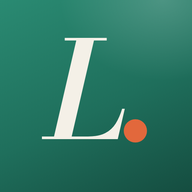
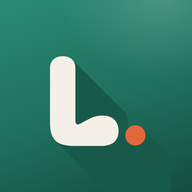
Type system B: Bagel Fat One wordmark, Nunito + Noto Sans SC, green long-shadow home poster
- Home opens on a green poster with long-shadow Loka. and bilingual headline
- Header goes transparent over the poster, frosted after scroll
- Bodoni/DM Sans retired; Nunito 900 headlines, Noto Sans SC Black for Chinese
- Icons, maskable icon, favicon and og.png redrawn to match
- SW cache loka-v6

Claude-Session: https://claude.ai/code/session_015bNF5qWaYTqrnXhoGxR5Lv

Changed region(s): [[0.2188, 0.1875, 0.7812, 0.7812], [0.6562, 0.7188, 0.75, 0.7812]]

diff --git a/css/app.css b/css/app.css
@@ -1,13 +1,13 @@
-:root{--ink:#F4F0E7;--bg2:#EBE4D6;--panel:#FFFFFF;--line:rgba(25,21,18,.1);--txt:#191512;--mut:#6B645A;--lime:#1F6F5C;--soft:#E3F0EB;--hot:#E2683C;--sky:#C99A2B;--serif:'Bodoni Moda','Noto Serif SC',serif}
+:root{--ink:#F4F0E7;--bg2:#EBE4D6;--panel:#FFFFFF;--line:rgba(25,21,18,.1);--txt:#191512;--mut:#6B645A;--lime:#1F6F5C;--soft:#E3F0EB;--hot:#E2683C;--sky:#C99A2B;--serif:'Nunito','Noto Sans SC',sans-serif;--display:'Bagel Fat One','Noto Sans SC',sans-serif}
 *{box-sizing:border-box;margin:0;-webkit-tap-highlight-color:transparent}
-body{background:var(--ink);overflow-x:hidden;color:var(--txt);font-family:'DM Sans','Noto Sans SC',system-ui,sans-serif;font-weight:400;line-height:1.5;padding-bottom:92px}
+body{background:var(--ink);overflow-x:hidden;color:var(--txt);font-family:'Nunito','Noto Sans SC',system-ui,sans-serif;font-weight:400;line-height:1.5;padding-bottom:92px}
 button,input,select,textarea{font:inherit;color:inherit}
 button{cursor:pointer;border:0;background:none}
 .wrap{max-width:520px;margin:0 auto;padding:0 18px}
 header{display:flex;align-items:center;justify-content:space-between;padding:20px 0 8px}
 .logo{font-family:var(--serif);font-weight:600;font-size:30px;letter-spacing:-.5px;font-style:italic}
 .logo b{color:var(--hot);font-style:normal}
-.logo small{font-family:'DM Sans','Noto Sans SC',sans-serif;font-style:normal;font-size:12px;color:var(--mut);margin-left:8px;letter-spacing:.5px;font-weight:500}
+.logo small{font-family:'Nunito','Noto Sans SC',sans-serif;font-style:normal;font-size:12px;color:var(--mut);margin-left:8px;letter-spacing:.5px;font-weight:500}
 .lang{border:1px solid rgba(25,21,18,.2);border-radius:99px;padding:6px 14px;font-size:13px;font-weight:500;background:#fff}
 .demo{background:var(--bg2);color:var(--mut);font-size:12px;border-radius:12px;padding:9px 12px;margin:6px 0 14px}
 h1{font-family:var(--serif);font-size:38px;font-weight:500;letter-spacing:-.8px;line-height:1.05;margin:10px 0 8px}
@@ -30,7 +30,7 @@ h1 em{color:var(--lime);font-style:italic}
 .row{display:flex;justify-content:space-between;align-items:flex-start;gap:10px}
 .tt{font-weight:600;font-size:16.5px;line-height:1.25}
 .meta{color:var(--mut);font-size:13px;margin-top:4px}
-.price{font-family:var(--serif);font-weight:600;font-size:23px;color:var(--lime);white-space:nowrap}.price small{font-family:'DM Sans','Noto Sans SC',sans-serif;font-size:11px;color:var(--mut);font-weight:400}
+.price{font-family:var(--serif);font-weight:600;font-size:23px;color:var(--lime);white-space:nowrap}.price small{font-family:'Nunito','Noto Sans SC',sans-serif;font-size:11px;color:var(--mut);font-weight:400}
 .badge{font-weight:600;font-size:12px;border-radius:99px;padding:5px 11px;white-space:nowrap}
 .b-need{background:var(--hot);color:#fff}.b-open{background:var(--soft);color:var(--lime)}.b-full{background:var(--bg2);color:var(--mut)}
 .bar{height:5px;background:var(--bg2);border-radius:9px;margin-top:14px;overflow:hidden}
@@ -107,7 +107,7 @@ input,select,textarea{width:100%;background:#fff;border:1px solid rgba(25,21,18,
 .match em{font-style:normal;flex:none;width:40px;height:40px;border-radius:50%;background:var(--hot);color:#fff;display:flex;align-items:center;justify-content:center;font-size:18px}
 .mini{display:flex;align-items:center;justify-content:space-between;gap:12px;width:100%;text-align:left;background:#fff;border-radius:14px;padding:11px 14px;margin-bottom:8px}
 .mini span{min-width:0;flex:1}.mini b{display:block;font-size:14px;font-weight:600;overflow:hidden;text-overflow:ellipsis;white-space:nowrap}.mini i{display:block;font-style:normal;font-size:12px;color:var(--mut);overflow:hidden;text-overflow:ellipsis;white-space:nowrap}
-.mini em{font-style:normal;flex:none;text-align:right;font-family:var(--serif);font-weight:600;font-size:19px;line-height:1}.mini em small{display:block;font-family:'DM Sans','Noto Sans SC',sans-serif;font-size:10px;font-weight:500;color:var(--mut);margin-top:3px}
+.mini em{font-style:normal;flex:none;text-align:right;font-family:var(--serif);font-weight:600;font-size:19px;line-height:1}.mini em small{display:block;font-family:'Nunito','Noto Sans SC',sans-serif;font-size:10px;font-weight:500;color:var(--mut);margin-top:3px}
 .mini em.gd{color:var(--lime)}.mini em.bd{color:var(--hot)}
 .link{display:block;margin:14px auto 0;font-size:13px;color:var(--mut);text-decoration:underline;text-underline-offset:3px}
 .cmp{overflow-x:auto;background:#fff;border-radius:16px;padding:6px 4px}.cmp table{border-collapse:collapse;width:100%;font-size:13px}
@@ -158,7 +158,7 @@ html[lang=zh] h1{letter-spacing:0;line-height:1.18}
 
 /* Section header with a link on the right */
 .sec.row2{display:flex;align-items:baseline;justify-content:space-between}
-.link.sm{font-family:'DM Sans','Noto Sans SC',sans-serif;font-style:normal;font-size:13px;font-weight:600;color:var(--lime);text-decoration:none}
+.link.sm{font-family:'Nunito','Noto Sans SC',sans-serif;font-style:normal;font-size:13px;font-weight:600;color:var(--lime);text-decoration:none}
 
 /* New rooms strip */
 .strip{display:flex;gap:12px;overflow-x:auto;scroll-snap-type:x mandatory;margin:0 -18px;padding:2px 18px 12px;scrollbar-width:none}
@@ -194,3 +194,47 @@ header.stuck{background:rgba(244,240,231,.86);backdrop-filter:blur(16px) saturat
 .seg button.on{background:#fff;color:var(--txt);box-shadow:0 2px 6px -2px rgba(25,21,18,.25);cursor:default}
 .wm .tg em{font-style:normal;letter-spacing:.06em;font-size:11px;font-weight:600}
 html[lang=zh] h1 em{font-style:normal}
+
+
+/* ───────── Type system B (17 Nov 2026): Bagel Fat One wordmark, Nunito, 思源黑体 Black ───────── */
+body{font-family:'Nunito','Noto Sans SC',system-ui,sans-serif;font-weight:500}
+h1{font-weight:900;letter-spacing:-.6px;line-height:1.08}
+h1 em{font-style:normal}
+.sec{font-style:normal;font-weight:900;font-size:20px;letter-spacing:-.2px}
+.price{font-weight:900;letter-spacing:-.3px}
+.stat b,.res b,.mini em{font-weight:900}
+.lb .rk,.step b{font-style:normal;font-weight:900}
+.match b{font-style:normal;font-weight:900;font-size:21px}
+.hero .n{font-style:normal;font-weight:900;font-size:28px;letter-spacing:-.4px;text-shadow:1px 1px 0 rgba(0,0,0,.14),2px 2px 0 rgba(0,0,0,.14),3px 3px 0 rgba(0,0,0,.14),4px 4px 0 rgba(0,0,0,.14),5px 5px 0 rgba(0,0,0,.14),6px 6px 0 rgba(0,0,0,.14)}
+.chip,.tag,.btn,.post{font-weight:700}
+html[lang=zh] h1,html[lang=zh] .sec{letter-spacing:0}
+
+/* Header wordmark */
+.wm .nm{font-family:var(--display);font-style:normal;font-weight:400;font-size:28px;letter-spacing:-.5px;line-height:1.05;text-shadow:1px 1px 0 #DCD2BF,2px 2px 0 #DCD2BF,3px 3px 0 #DCD2BF,4px 4px 0 #DCD2BF,5px 5px 0 #DCD2BF}
+.mark i{font-family:var(--display);font-style:normal;font-weight:400;font-size:27px;left:10px;top:5px;text-shadow:1px 1px 0 #185a4a,2px 2px 0 #185a4a,3px 3px 0 #185a4a,4px 4px 0 #185a4a,5px 5px 0 #185a4a,6px 6px 0 #185a4a,7px 7px 0 #185a4a,8px 8px 0 #185a4a,9px 9px 0 #185a4a,10px 10px 0 #185a4a}
+.mark b{left:27px;top:25px}
+
+/* Home poster: green, long shadow */
+.hposter{position:relative;margin:0 -18px 14px;padding:4px 22px 26px;background:linear-gradient(170deg,#25806a 0,#1F6F5C 55%,#185a4a 100%);color:#F4F0E7;overflow:hidden;border-radius:0 0 30px 30px}
+.hposter::after{content:"";position:absolute;inset:0;background:radial-gradient(80% 60% at 90% 0%,rgba(255,255,255,.12),transparent 60%);pointer-events:none}
+.pbig{font-family:var(--display);font-size:76px;line-height:1.08;letter-spacing:-1px;text-shadow:1px 1px 0 #185a4a,2px 2px 0 #185a4a,3px 3px 0 #185a4a,4px 4px 0 #185a4a,5px 5px 0 #185a4a,6px 6px 0 #185a4a,7px 7px 0 #185a4a,8px 8px 0 #185a4a,9px 9px 0 #185a4a,10px 10px 0 #185a4a,11px 11px 0 #185a4a,12px 12px 0 #185a4a,13px 13px 0 #185a4a,14px 14px 0 #185a4a,15px 15px 0 #185a4a,16px 16px 0 #185a4a,17px 17px 0 #185a4a,18px 18px 0 #185a4a,19px 19px 0 #185a4a,20px 20px 0 #185a4a,21px 21px 0 #185a4a,22px 22px 0 #185a4a,23px 23px 0 #185a4a,24px 24px 0 #185a4a,25px 25px 0 #185a4a,26px 26px 0 #185a4a,27px 27px 0 #185a4a,28px 28px 0 #185a4a,29px 29px 0 #185a4a,30px 30px 0 #185a4a,31px 31px 0 #185a4a,32px 32px 0 #185a4a,33px 33px 0 #185a4a,34px 34px 0 #185a4a,35px 35px 0 #185a4a,36px 36px 0 #185a4a,37px 37px 0 #185a4a,38px 38px 0 #185a4a,39px 39px 0 #185a4a,40px 40px 0 #185a4a}
+.pbig b{color:var(--hot);font-weight:400}
+.ptg{display:flex;align-items:center;gap:8px;font-size:10.5px;font-weight:800;letter-spacing:.24em;color:#cfe3da;margin:0 0 18px}
+.ptg em{font-style:normal;letter-spacing:.08em;font-size:11.5px}
+.ptg s{width:4px;height:4px;border-radius:50%;background:var(--hot)}
+.hposter h1{position:relative;z-index:1;margin:0;font-size:38px;color:#F4F0E7;text-shadow:1px 1px 0 #185a4a,2px 2px 0 #185a4a,3px 3px 0 #185a4a,4px 4px 0 #185a4a,5px 5px 0 #185a4a,6px 6px 0 #185a4a,7px 7px 0 #185a4a,8px 8px 0 #185a4a,9px 9px 0 #185a4a,10px 10px 0 #185a4a,11px 11px 0 #185a4a,12px 12px 0 #185a4a,13px 13px 0 #185a4a,14px 14px 0 #185a4a,15px 15px 0 #185a4a,16px 16px 0 #185a4a,17px 17px 0 #185a4a,18px 18px 0 #185a4a,19px 19px 0 #185a4a,20px 20px 0 #185a4a,21px 21px 0 #185a4a,22px 22px 0 #185a4a}
+.hposter h1 em{color:#F4C766}
+.p2{position:relative;z-index:1;font-weight:900;font-size:21px;margin-top:10px;color:#F4F0E7;text-shadow:1px 1px 0 #185a4a,2px 2px 0 #185a4a,3px 3px 0 #185a4a,4px 4px 0 #185a4a,5px 5px 0 #185a4a,6px 6px 0 #185a4a,7px 7px 0 #185a4a,8px 8px 0 #185a4a,9px 9px 0 #185a4a,10px 10px 0 #185a4a,11px 11px 0 #185a4a,12px 12px 0 #185a4a,13px 13px 0 #185a4a,14px 14px 0 #185a4a}
+.p2 em{font-style:normal;color:#F4C766}
+.psub{position:relative;z-index:1;margin-top:14px;font-size:13.5px;line-height:1.6;color:#d6e8e0;max-width:32em}
+/* Header sitting on the poster (home, not scrolled) */
+header.onposter:not(.stuck){background:#25806a}
+header.onposter:not(.stuck) .brand{opacity:0;pointer-events:none}
+header.onposter:not(.stuck) .seg{background:rgba(255,255,255,.14);box-shadow:none}
+header.onposter:not(.stuck) .seg button{color:#d6e8e0}
+header.onposter:not(.stuck) .seg button.on{color:var(--lime);background:#F4F0E7}
+.brand{transition:opacity .25s}
+@media (min-width:560px){.hposter{border-radius:0 0 30px 30px}}
+/* Poster runs up under the transparent header so the green is one piece */
+header.onposter:not(.stuck){background:transparent}
+.hposter{margin-top:-74px;padding-top:78px}

diff --git a/js/app.js b/js/app.js
@@ -4,12 +4,15 @@ function render(){
  document.documentElement.lang=S.lang==='zh'?'zh':'en';
  const a=document.getElementById('app');const back=`<button class="back" data-a="tab" data-v="home">← ${t('Home','首页')}</button>`;
  const zh=S.lang==='zh';
- let h=`<header id="top"><button class="brand" data-a="tab" data-v="home" aria-label="${t('Loka home','Loka 首页')}"><span class="mark" aria-hidden="true"><i>L</i><b></b></span><span class="wm"><span class="nm">${esc(BRAND.en)}<b>.</b></span><span class="tg"><em>${esc(BRAND.zh)}</em><s></s>Brisbane</span></span></button>
+ let h=`<header id="top" class="${tab==='home'?'onposter':''}${scrollY>8?' stuck':''}"><button class="brand" data-a="tab" data-v="home" aria-label="${t('Loka home','Loka 首页')}"><span class="mark" aria-hidden="true"><i>L</i><b></b></span><span class="wm"><span class="nm">${esc(BRAND.en)}<b>.</b></span><span class="tg"><em>${esc(BRAND.zh)}</em><s></s>Brisbane</span></span></button>
  <div class="seg" role="group" aria-label="${t('Language','语言')}"><button ${zh?'data-a="lang"':'class="on" aria-pressed="true"'}>EN</button><button ${zh?'class="on" aria-pressed="true"':'data-a="lang"'}>中文</button></div></header>`;
  if(tab==='home'){
   const need=S.squads.filter(q=>left(q)>0&&left(q)<=2);const bad=S.homes.filter(x=>homeFlags(x).length).length+S.jobs.filter(x=>jobFlags(x).length).length;
-  h+=`<div class="demo">${t('Demo build with sample listings. Data stays on this phone until the shared database is connected.','演示版，房源和工作均为示例；数据只存在这台手机上。')}</div>
-  <h1>${t('Find a room. Find a job. <em>In your language.</em>','招租，找工。<em>用你的语言。</em>')}</h1><div class="sub">${t('Brisbane rooms and jobs checked against Queensland rules, with verified listings clearly marked. For students, working-holiday makers, new arrivals and locals.','布里斯班的房和工，按昆州规定逐条检查，核实过的房源清楚标注。给留学生、打工度假、新移民和本地人。')}</div>
+  h+=`<section class="hposter"><div class="pbig">${esc(BRAND.en)}<b>.</b></div><div class="ptg"><em>${esc(BRAND.zh)}</em><s></s>BRISBANE</div>
+  <h1>${t('Find a room.<br><em>Find a job.</em>','招租，找工。<br><em>用你的语言。</em>')}</h1>
+  <div class="p2">${t('招租，找工。<em>用你的语言。</em>','Find a room. <em>Find a job.</em>')}</div>
+  <div class="psub">${t('Brisbane rooms and jobs checked against Queensland rules, with verified listings clearly marked. For students, working-holiday makers, new arrivals and locals.','布里斯班的房和工，按昆州规定逐条检查，核实过的房源清楚标注。给留学生、打工度假、新移民和本地人。')}</div></section>
+  <div class="demo">${t('Demo build with sample listings. Data stays on this phone until the shared database is connected.','演示版，房源和工作均为示例；数据只存在这台手机上。')}</div>
   <div class="duo">
    <button class="hero r" data-a="tab" data-v="homes"><span class="e">${HERO_ART.rooms}</span><div class="n">${t('Rooms','招租')}</div><div class="d">${S.homes.length} ${t('listed','条')} · ${t('from','最低')} $${Math.min(...S.homes.map(x=>x.rent))}/${t('wk','周')}</div></button>
    <button class="hero j" data-a="tab" data-v="jobs"><span class="e">${HERO_ART.jobs}</span><div class="n">${t('Jobs','找工')}</div><div class="d">${S.jobs.length} ${t('listed','条')} · ${t('up to','最高')} $${Math.max(...S.jobs.map(x=>x.pay))}/${t('hr','时')}</div></button>

diff --git a/js/map.js b/js/map.js
@@ -7,7 +7,7 @@ function mapSvg(){const cnt=a=>S.homes.filter(h=>h.area===a).length+S.jobs.filte
  <circle cx="120" cy="150" r="78" fill="#E3F0EB" opacity=".55"/><circle cx="262" cy="320" r="104" fill="#F6E7D8" opacity=".6"/>
  <path d="${river}" fill="none" stroke="#cfe3ee" stroke-width="20" stroke-linecap="round"/><path d="${river}" fill="none" stroke="#e9f3f7" stroke-width="7" stroke-linecap="round"/>
  <path d="M236 132 L214 236 L250 300 L262 420 M214 236 L360 232 M96 110 L62 186" stroke="#E4DCCB" stroke-width="4" fill="none" stroke-linecap="round" stroke-dasharray="1 9"/>
- <text x="330" y="52" font-family="Bodoni Moda,serif" font-style="italic" font-size="14" fill="#8fa3ad" text-anchor="middle">Brisbane River</text>
+ <text x="330" y="52" font-family="Nunito,sans-serif" font-weight="800" font-size="14" fill="#8fa3ad" text-anchor="middle">Brisbane River</text>
  <g transform="translate(386,396)"><circle r="15" fill="#fff"/><path d="M0-10 4 4 0 1-4 4z" fill="#E2683C"/><text y="-17" text-anchor="middle" font-size="9" font-weight="700" fill="#6B645A">N</text></g>
  <rect x="252" y="62" width="34" height="18" rx="9" fill="#191512"/><text x="269" y="75" text-anchor="middle" font-size="10" font-weight="700" fill="#F4F0E7">CBD</text>
  ${MAP.map(m=>{const c=cnt(m[0]);return `<g class="pin" data-a="pin" data-v="${m[0]}"><circle cx="${m[1]}" cy="${m[2]}" r="26" fill="transparent"/><circle cx="${m[1]}" cy="${m[2]}" r="${c?16:8}" fill="${c?'#1F6F5C':'#d8d0c0'}" stroke="#fff" stroke-width="3"/><text x="${m[1]}" y="${m[2]+4.5}" text-anchor="middle" font-size="13" font-weight="700" fill="#fff">${c||''}</text><text class="ml" x="${m[1]+m[3]}" y="${m[2]+m[4]}" text-anchor="${m[5]}" font-size="12" font-weight="600" fill="#191512" paint-order="stroke" stroke="#F8F5EE" stroke-width="4">${m[0]}</text></g>`}).join('')}</svg>`}

diff --git a/index.html b/index.html
@@ -19,7 +19,8 @@
 <meta name="apple-mobile-web-app-title" content="Loka">
 <meta name="description" content="Loka: Brisbane rooms and jobs checked against Queensland rules. 布里斯班招租与找工。">
 <title>Loka — Brisbane, sorted</title>
-<link href="https://fonts.googleapis.com/css2?family=Bodoni+Moda:ital,wght@0,500;0,600;1,500;1,600&family=DM+Sans:wght@400;500;600;700&family=Noto+Sans+SC:wght@400;500;700&family=Noto+Serif+SC:wght@500;600&display=swap" rel="stylesheet">
+<link rel="preconnect" href="https://fonts.googleapis.com"><link rel="preconnect" href="https://fonts.gstatic.com" crossorigin>
+<link href="https://fonts.googleapis.com/css2?family=Bagel+Fat+One&family=Nunito:wght@400;600;700;800;900&family=Noto+Sans+SC:wght@400;500;700;900&display=swap" rel="stylesheet">
 <link rel="stylesheet" href="css/app.css">
 <!-- Scripts load in this order and share one global scope. See HANDOFF.md "File map". -->
 <script src="js/config.js" defer></script>

diff --git a/js/more.js b/js/more.js
@@ -75,7 +75,7 @@ const THEMES={neon:{bg:['#F4F0E7','#EBE4D6'],ac:'#1F6F5C',tx:'#191512',mu:'#6B64
 function drawPoster(q){const T=THEMES[posterTheme],c=document.createElement('canvas');c.width=1080;c.height=1440;const x=c.getContext('2d');
  const g=x.createLinearGradient(0,0,1080,1440);g.addColorStop(0,T.bg[0]);g.addColorStop(1,T.bg[1]);x.fillStyle=g;x.fillRect(0,0,1080,1440);
  x.globalAlpha=.10;x.fillStyle=T.ac;x.beginPath();x.arc(1010,250,330,0,7);x.fill();x.globalAlpha=.08;x.beginPath();x.arc(60,1400,260,0,7);x.fill();x.globalAlpha=1;x.fillStyle=T.ac;x.fillRect(80,160,120,8);
- const F=(w,s)=>x.font=`${w} ${s}px "Bodoni Moda","Noto Serif SC",serif`;
+ const F=(w,s)=>x.font=`${w} ${s}px "Nunito","Noto Sans SC",sans-serif`;
  x.fillStyle=T.ac;F(900,54);x.fillText(BRAND.en+'. '+BRAND.zh,80,120);
  x.fillStyle=T.mu;F(500,34);x.textAlign='right';x.fillText('BRISBANE',1000,120);x.textAlign='left';
  const l=left(q);x.fillStyle=T.ac;F(900,l>0&&l<=9?300:190);

diff --git a/sw.js b/sw.js
@@ -1,5 +1,5 @@
 // Loka service worker: offline shell. Bump VERSION on every deploy.
-const VERSION='loka-v5';
+const VERSION='loka-v6';
 const SHELL=['./','index.html','css/app.css','js/config.js','js/rules.js','js/store.js','js/seed.js','js/state.js','js/ui.js','js/art.js','js/map.js','js/rooms.js','js/jobs.js','js/ask.js','js/more.js','js/app.js','data/suburbs.json','manifest.webmanifest','icons/icon-192.png','icons/icon-512.png','icons/icon-maskable-512.png','icons/favicon-32.png'];
 self.addEventListener('install',e=>{e.waitUntil(caches.open(VERSION).then(c=>c.addAll(SHELL)).then(()=>self.skipWaiting()))});
 self.addEventListener('activate',e=>{e.waitUntil(caches.keys().then(k=>Promise.all(k.filter(x=>x!==VERSION).map(x=>caches.delete(x)))).then(()=>self.clients.claim()))});

diff --git a/HANDOFF.md b/HANDOFF.md
@@ -113,7 +113,11 @@ features without the owner first getting legal advice.
 ## Design system (keep it)
 
 - Cream background `#F4F0E7`, ink `#191512`, green `#1F6F5C`, coral `#E2683C`, gold `#C99A2B`.
-- Bodoni Moda (display, italic accents), DM Sans and Noto Sans SC (body).
+- Type (chosen by the owner 17 Nov 2026, "option B"): **Bagel Fat One** for the "Loka." wordmark
+  only; **Nunito** 900 for headlines, 400-800 for body; **Noto Sans SC** (900 for Chinese headlines).
+  No italics on Chinese. Bodoni and DM Sans are retired.
+- Signature effect: **long shadow** (`text-shadow` stacked 1px steps in `#185a4a`) on the green
+  home poster (`.hposter`). Use it on green only, never on body text.
 - Rooms and Jobs are the two hero tiles and stay front and centre.
 - Mobile first, max width 520px, bottom nav, bottom sheets for detail.
 - Every string goes through `t(en, zh)`. Any new text needs both languages.
@@ -163,3 +167,9 @@ One line per session: date, model, what changed, what the next assistant must kn
   switch (only the inactive side has `data-a="lang"`). Header is transparent at the top and
   gets class `stuck` (frosted, hairline) after 8px of scroll; listener at the end of
   `js/app.js`. Chinese headline accents no longer use fake italic. SW `loka-v5`.
+- 17 Nov 2026 · Claude Opus 5.5 · **Type system B + green poster.** Owner picked Bagel Fat One
+  for "Loka." and pairing B (Nunito + Noto Sans SC Black). Home now opens on a green
+  long-shadow poster (`.hposter` in `js/app.js` / end of `css/app.css`); the header is
+  transparent over it (`header.onposter`) and hides its small wordmark until you scroll.
+  Class `.poster` is the squads share image; the home poster is `.hposter`. Icons, maskable,
+  favicon and `og.png` redrawn in the Bagel style. SW `loka-v6`.
